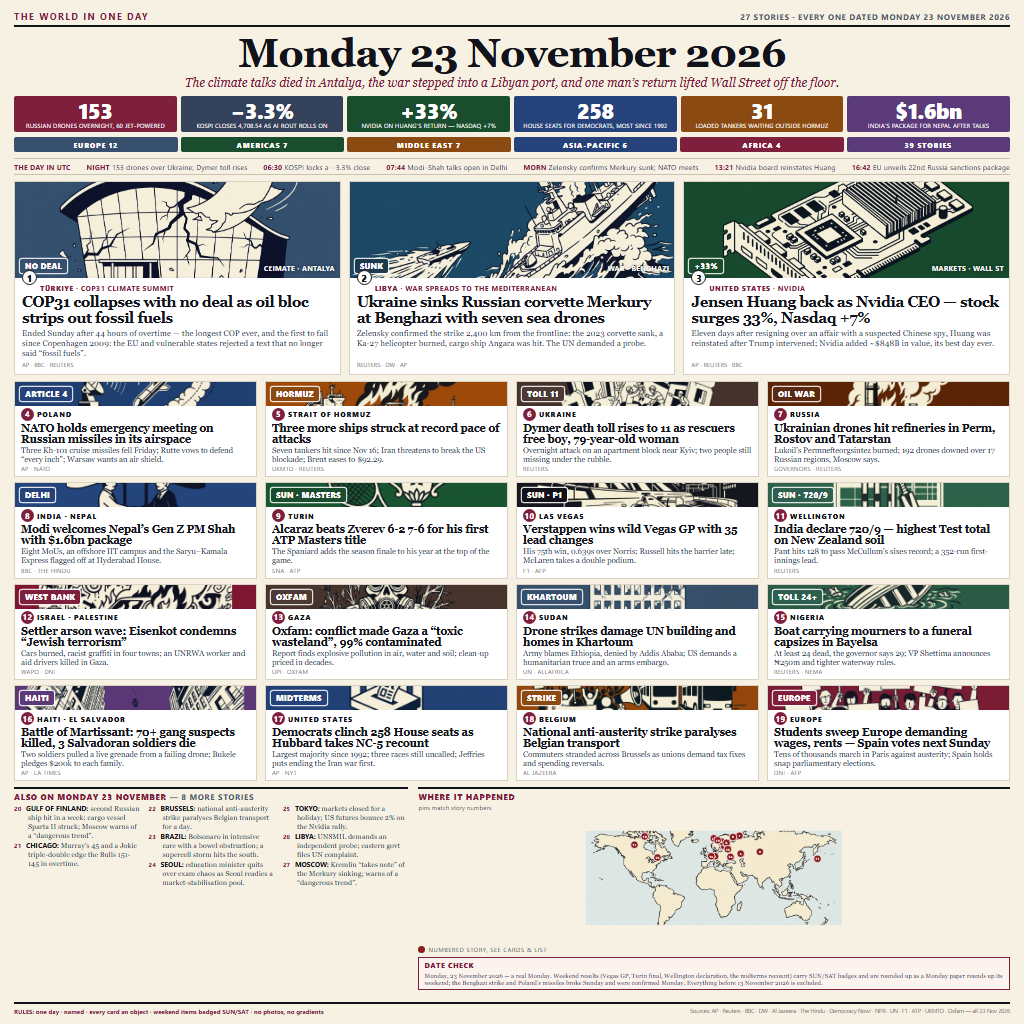
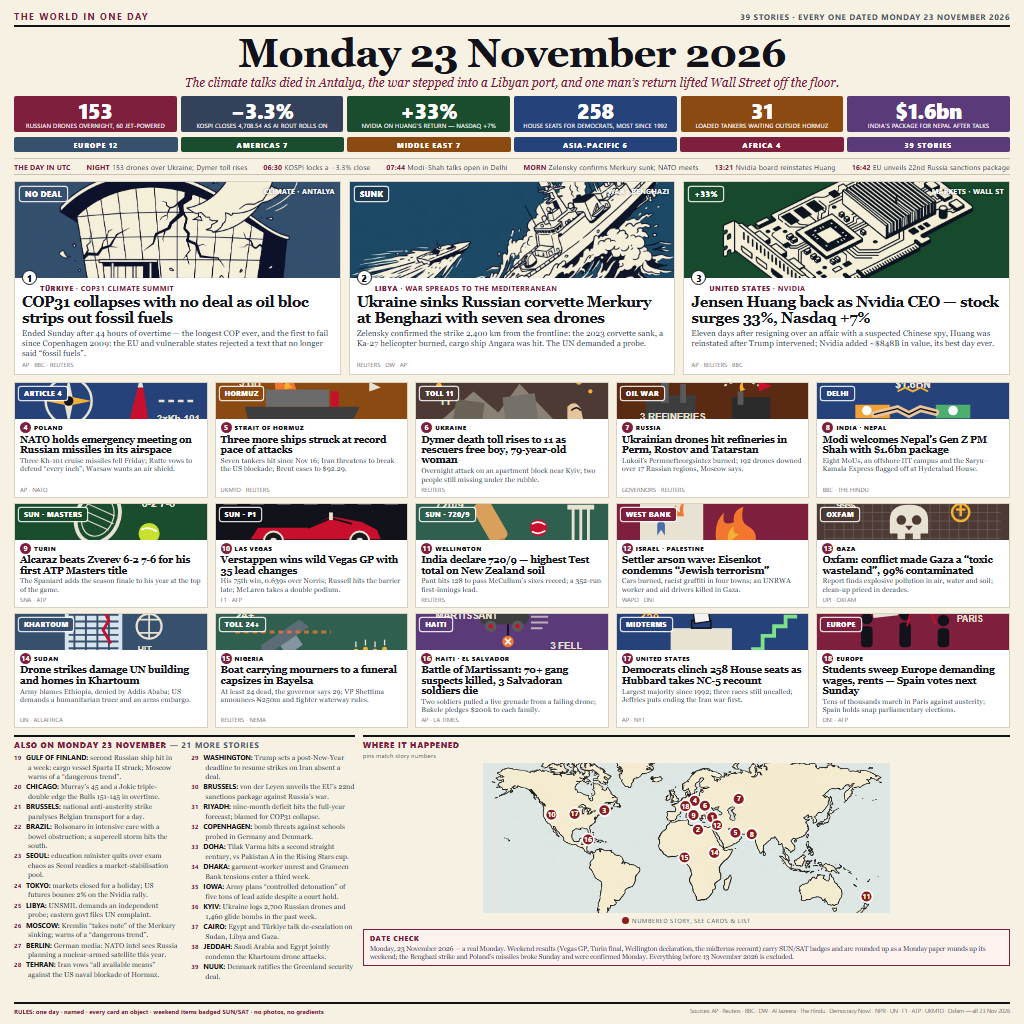
Restore the 39-story five-column page, heroes and map illustrated, pins measured on a grid probe

diff --git a/README.md b/README.md
@@ -5,22 +5,24 @@
 [![reward](https://make.fun/badge/news-image-20261123/Rieff90/world-in-one-day-20261123/reward.svg)](https://make.fun/bounty/news-image-20261123?utm_source=github&utm_medium=readme&utm_campaign=news-image-20261123)
 
 Monday 23 November 2026 summed up in one image: 39 stories across five continents on a single
-front page. Every hero and every tile carries a flat-vector illustration — the COP31 hall
-cracking as its text blows away, a corvette going under at Benghazi as a sea drone races in, a
-green GPU die with its +33% arrow, a radar and a falling Kh-101, a burning supertanker, a gas
-mask over cracked ground — because an object survives the thumbnail where prose does not.
+front page. The three heroes and the world map carry flat-vector illustrations rendered by an
+image model from one locked prompt template — the COP31 hall cracking as its text blows away, a
+corvette going under at Benghazi as a sea drone races in, an isometric GPU card for the Nvidia
+surge — while the fifteen tile cards keep hand-written SVG pictograms (a radar and a falling
+Kh-101, a burning supertanker, a gas mask over cracked ground), because at a 36-pixel strip the
+crisp pictogram still reads as an object at 300px where a rendered panel turns to mush.
 
-The eighteen illustrations were drawn by an image model from one locked prompt template: flat
-vector editorial, two-tone cream `#F6F1E3` and dark ink, solid band colour, no text, no logos,
-no gradients, no photorealism. That single template is what keeps eighteen panels in one visual
-language. `src/art.mjs` keeps the hand-written SVG pictograms as the fallback for any band
-without a rendered PNG.
+The rendered art came from one locked prompt template: flat vector editorial, two-tone cream
+`#F6F1E3` and dark ink, solid band colour, no text, no logos, no gradients, no photorealism.
+That single template is what keeps the panels in one visual language. `src/art.mjs` holds the
+hand-written SVG pictograms, which double as the fallback for any band without a rendered PNG.
 
 Breadth is carried by a two-column list of one-line items, the day's six figures sit in a stat
-strip, a clock line runs the day in UTC, a pin map shows where it happened, and a visible date
-check records what was kept out and why. Weekend results that a Monday paper rounds up (Vegas
-GP, the Turin final, Wellington's 720/9) carry SUN badges so nothing passes as Monday news that
-is not.
+strip, a clock line runs the day in UTC, a pin map shows where it happened — pins drawn in the
+map bitmap's own pixel space, coordinates measured against a fine grid probe so each one lands
+on the right coast — and a visible date check records what was kept out and why. Weekend results
+that a Monday paper rounds up (Vegas GP, the Turin final, Wellington's 720/9) carry SUN badges
+so nothing passes as Monday news that is not.
 
 ## Run it
 
@@ -38,9 +40,10 @@ node src/page.mjs out/entry.png   # renders the page with headless Chrome, write
 ```
 
 `src/stories.mjs` holds the day's 39 verified stories with their sources; `art/` holds the
-eighteen rendered band illustrations; `src/bands.mjs` embeds them as data URIs (falling back to
-the hand-written pictograms in `src/art.mjs`); `src/page.mjs` turns the whole day into one
-1024×1024 page and screenshots it.
+rendered hero panels and the world map; `src/bands.mjs` embeds them as data URIs (falling back
+to the pictograms in `src/art.mjs`); `src/page.mjs` turns the whole day into one 1024×1024 page
+and screenshots it — pass `MEASURE_HTML=<path>` to also write out an audited copy of the page
+whose section boxes can be dumped and measured.
 
 ## License
 
